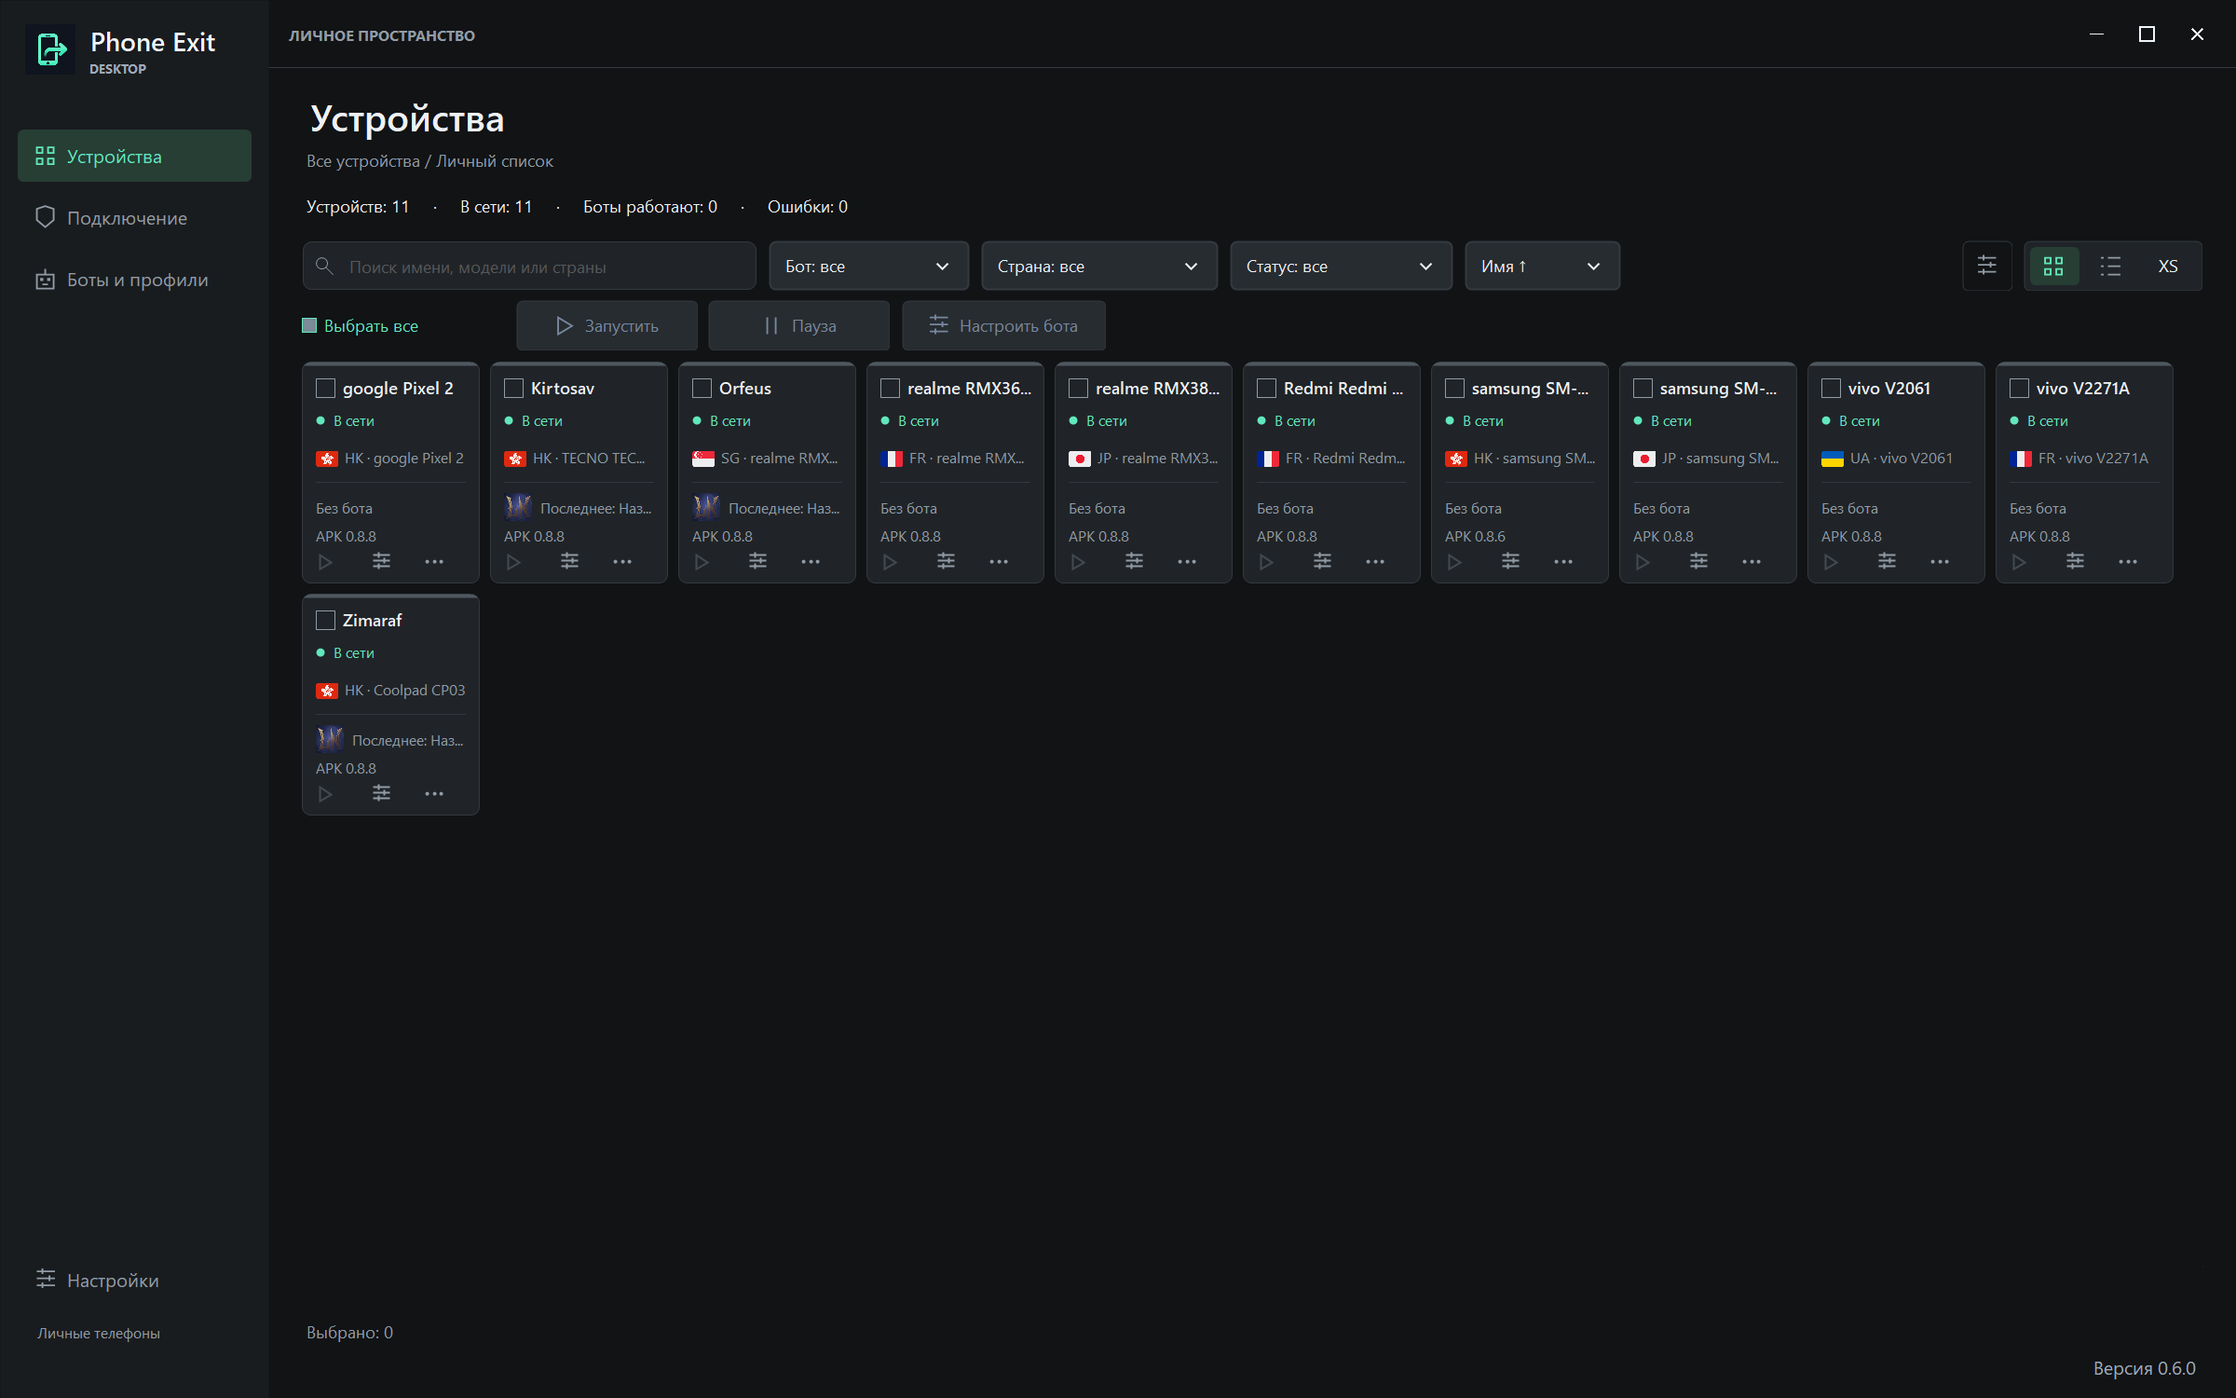
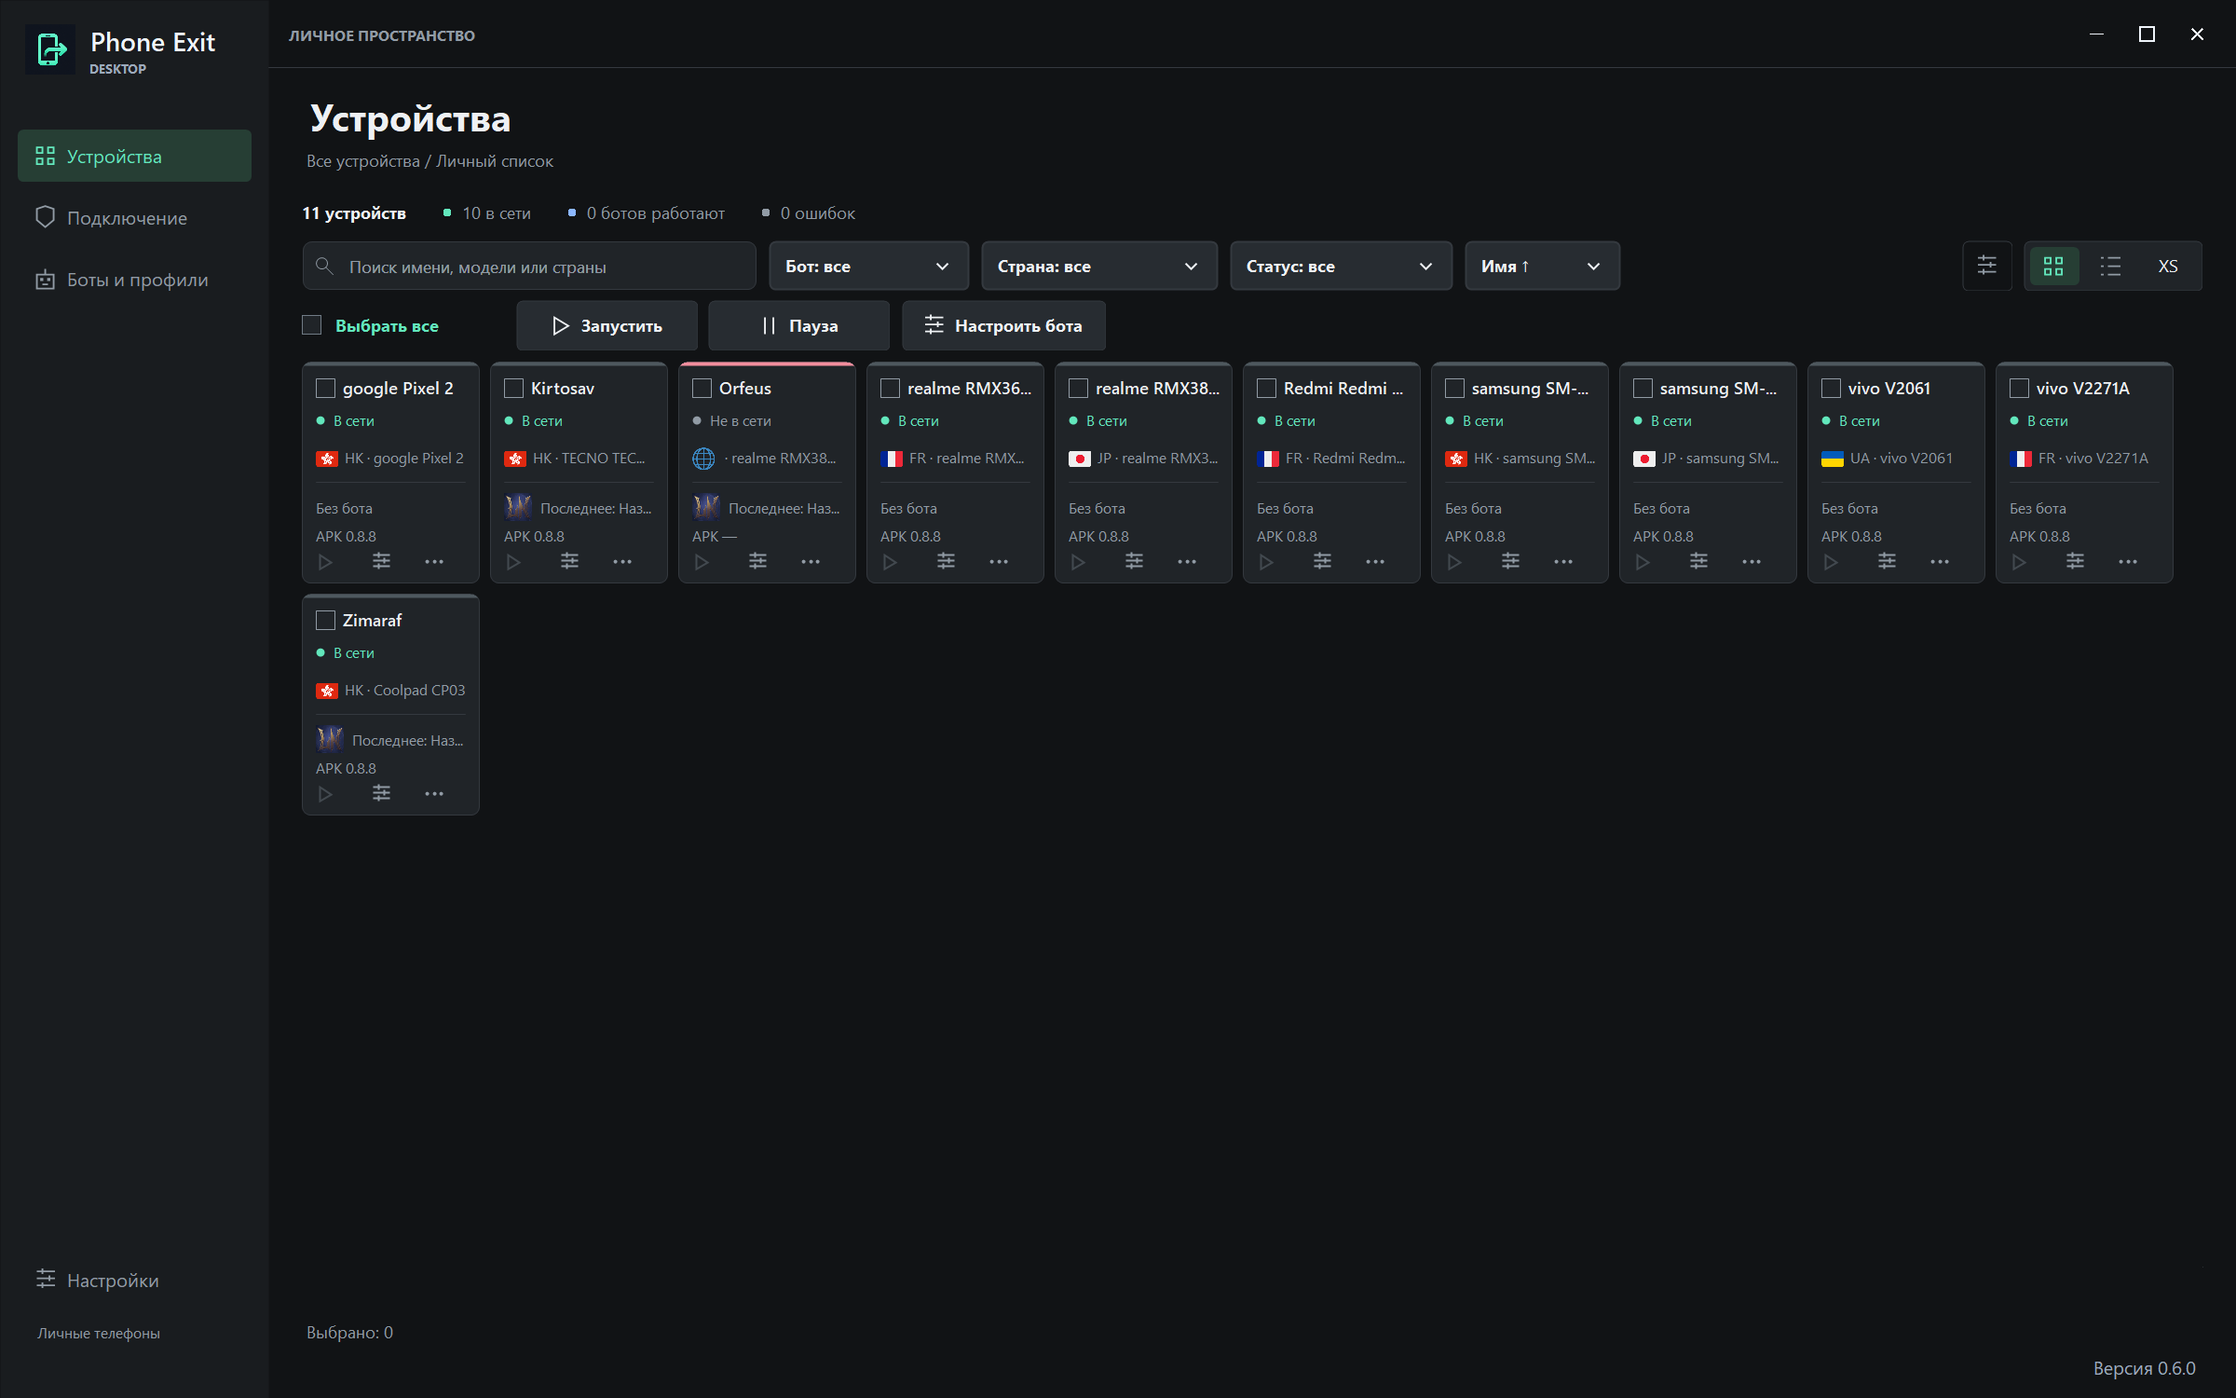
Polish fleet typography, status colors and compact table columns

diff --git a/phone-exit/pc/desktop-controls.cs b/phone-exit/pc/desktop-controls.cs
@@ -108,6 +108,7 @@ namespace PhoneExit {
         public bool IconOnly {get;set;}
         public bool Borderless {get;set;}
         public bool CenterContent {get;set;}
+        public bool KeepForegroundWhenDisabled {get;set;}
         public Color SurroundColor {get;set;}
         bool hover,pressed;
         protected override void OnMouseEnter(EventArgs e){hover=true;Invalidate();base.OnMouseEnter(e);}
@@ -120,7 +121,7 @@ namespace PhoneExit {
                 if(Rounded)Background(e.Graphics);else e.Graphics.Clear(BackColor);float s=DesktopDpi.ForControl(this),x=IconOnly?Width/2f-7*s:14*s,y=Height/2f-6*s;
                 int textWidth=TextRenderer.MeasureText(e.Graphics,Text,Font,Size.Empty,TextFormatFlags.NoPadding).Width;
                 if(CenterContent&&!IconOnly)x=(Width-textWidth-22*s)/2;
-                Color ink=Enabled?ForeColor:Color.FromArgb(119,136,158);
+                Color ink=Enabled||KeepForegroundWhenDisabled?ForeColor:Color.FromArgb(119,136,158);
                 using(var pen=new Pen(ink,Math.Max(1,1.2f*s))){
                     if(NavigationIcon=="devices"){for(int i=0;i<4;i++)e.Graphics.DrawRectangle(pen,x+(i%2)*8*s,y+(i/2)*8*s,4*s,4*s);}
                     else if(NavigationIcon=="list"){for(int i=0;i<3;i++){e.Graphics.DrawLine(pen,x,y+i*6*s,x+2*s,y+i*6*s);e.Graphics.DrawLine(pen,x+5*s,y+i*6*s,x+14*s,y+i*6*s);}}
@@ -153,7 +154,7 @@ namespace PhoneExit {
             var box=new Rectangle(0,top,size,size);var ink=Enabled?Color.FromArgb(98,231,188):Color.FromArgb(119,136,158);
             using(var brush=new SolidBrush(Checked?ink:Color.FromArgb(32,36,40)))e.Graphics.FillRectangle(brush,box);
             using(var pen=new Pen(Checked?ink:Color.FromArgb(112,123,133)))e.Graphics.DrawRectangle(pen,0,top,size-1,size-1);
-            if(Checked)using(var pen=new Pen(Color.FromArgb(16,37,30),Math.Max(1,1.5f*s)))e.Graphics.DrawLines(pen,new[]{new PointF(3*s,top+7*s),new PointF(6*s,top+10*s),new PointF(11*s,top+4*s)});
+            if(Checked)using(var pen=new Pen(Color.FromArgb(16,37,30),Math.Max(1,1.5f*s))){if(CheckState==CheckState.Indeterminate)e.Graphics.DrawLine(pen,3*s,top+7*s,11*s,top+7*s);else e.Graphics.DrawLines(pen,new[]{new PointF(3*s,top+7*s),new PointF(6*s,top+10*s),new PointF(11*s,top+4*s)});}
             TextRenderer.DrawText(e.Graphics,Text,Font,new Rectangle(size+(int)(7*s),0,Width-size-(int)(7*s),Height),Enabled?ForeColor:Color.FromArgb(119,136,158),TextFormatFlags.VerticalCenter|TextFormatFlags.SingleLine|TextFormatFlags.EndEllipsis);
             if(Focused)ControlPaint.DrawFocusRectangle(e.Graphics,new Rectangle(size+(int)(5*s),2,Width-size-(int)(5*s)-2,Height-4),ForeColor,BackColor);
         }
@@ -195,9 +196,20 @@ namespace PhoneExit {
         }
     }
 
+    public sealed class FleetSummaryControl : Control {
+        public int Total {get;private set;} public int Online {get;private set;} public int Running {get;private set;} public int Errors {get;private set;}
+        static string Count(int n,string one,string few,string many){int tail=n%100;return n+" "+(tail>=11&&tail<=14?many:n%10==1?one:n%10>=2&&n%10<=4?few:many);}
+        public FleetSummaryControl(){SetStyle(ControlStyles.UserPaint|ControlStyles.AllPaintingInWmPaint|ControlStyles.OptimizedDoubleBuffer|ControlStyles.ResizeRedraw,true);TabStop=false;AccessibleRole=AccessibleRole.StaticText;}
+        public void SetCounts(int total,int online,int running,int errors){Total=total;Online=online;Running=running;Errors=errors;Text=Count(total,"устройство","устройства","устройств")+" · "+online+" в сети · "+Count(running,"бот работает","бота работают","ботов работают")+" · "+Count(errors,"ошибка","ошибки","ошибок");AccessibleName=Text;Invalidate();}
+        protected override void OnPaint(PaintEventArgs e){e.Graphics.Clear(BackColor);float s=DesktopDpi.ForControl(this);int x=0;string[] labels={Count(Total,"устройство","устройства","устройств"),Online+" в сети",Count(Running,"бот работает","бота работают","ботов работают"),Count(Errors,"ошибка","ошибки","ошибок")};Color[] colors={ForeColor,Color.FromArgb(145,155,165),Color.FromArgb(145,155,165),Errors>0?Color.FromArgb(242,141,157):Color.FromArgb(145,155,165)};Color[] dots={ForeColor,Color.FromArgb(98,231,188),Color.FromArgb(140,183,255),Errors>0?Color.FromArgb(242,141,157):Color.FromArgb(145,155,165)};var flags=TextFormatFlags.NoPadding|TextFormatFlags.SingleLine|TextFormatFlags.VerticalCenter;using(var bold=new Font(Font,FontStyle.Bold)){for(int i=0;i<labels.Length;i++){if(i>0){using(var b=new SolidBrush(dots[i]))e.Graphics.FillEllipse(b,x,(Height-6*s)/2,6*s,6*s);x+=(int)Math.Round(14*s);}var font=i==0?bold:Font;int width=TextRenderer.MeasureText(e.Graphics,labels[i],font,Size.Empty,TextFormatFlags.NoPadding|TextFormatFlags.SingleLine).Width;TextRenderer.DrawText(e.Graphics,labels[i],font,new Rectangle(x,0,width,Height),colors[i],flags);x+=width+(int)Math.Round(26*s);}}}
+    }
+
     public sealed class SearchField : UserControl {
-        [DllImport("user32.dll",CharSet=CharSet.Unicode)] static extern IntPtr SendMessage(IntPtr window,int message,IntPtr value,string text);
-        readonly TextBox input=new TextBox{BorderStyle=BorderStyle.None,Multiline=false,AccessibleName="Поиск по имени, персонажу, модели или стране"};
+        sealed class SearchInput : TextBox {
+            public string Cue;
+            protected override void WndProc(ref Message m){base.WndProc(ref m);if(m.Msg!=0xf&&m.Msg!=0x317&&m.Msg!=0x318)return;if(Text.Length!=0||Focused||String.IsNullOrEmpty(Cue))return;using(var g=m.Msg==0xf?Graphics.FromHwnd(Handle):Graphics.FromHdc(m.WParam)){TextRenderer.DrawText(g,Cue,Font,ClientRectangle,Color.FromArgb(145,155,165),TextFormatFlags.NoPadding|TextFormatFlags.SingleLine|TextFormatFlags.VerticalCenter|TextFormatFlags.EndEllipsis);}}
+        }
+        readonly SearchInput input=new SearchInput{BorderStyle=BorderStyle.None,Multiline=false,AccessibleName="Поиск по имени, персонажу, модели или стране"};
         readonly SearchClear clear=new SearchClear();
         readonly ToolTip tips=new ToolTip();
         public string Placeholder="Поиск имени, модели или страны";
@@ -207,9 +219,9 @@ namespace PhoneExit {
             public SearchClear(){FlatStyle=FlatStyle.Flat;FlatAppearance.BorderSize=0;AccessibleName="Очистить поиск";Cursor=Cursors.Hand;TabStop=false;}
             protected override void OnPaint(PaintEventArgs e){e.Graphics.Clear(BackColor);float s=DesktopDpi.Scale,x=Width/2f,y=Height/2f;using(var pen=new Pen(ForeColor,Math.Max(1,s))){e.Graphics.DrawLine(pen,x-3*s,y-3*s,x+3*s,y+3*s);e.Graphics.DrawLine(pen,x+3*s,y-3*s,x-3*s,y+3*s);}}
         }
-        public SearchField(){SetStyle(ControlStyles.UserPaint|ControlStyles.AllPaintingInWmPaint|ControlStyles.OptimizedDoubleBuffer|ControlStyles.ResizeRedraw,true);BackColor=Color.FromArgb(32,36,40);ForeColor=Color.FromArgb(238,241,244);Controls.Add(input);Controls.Add(clear);input.BackColor=BackColor;input.ForeColor=ForeColor;clear.ForeColor=Color.FromArgb(145,155,165);clear.BackColor=BackColor;tips.SetToolTip(clear,"Очистить поиск");input.TextChanged+=(s,e)=>{OnTextChanged(EventArgs.Empty);LayoutInput();Invalidate();};input.GotFocus+=(s,e)=>Invalidate();input.LostFocus+=(s,e)=>Invalidate();input.KeyDown+=(s,e)=>{if(e.KeyCode==Keys.Escape){Clear();e.Handled=true;e.SuppressKeyPress=true;}};clear.Click+=(s,e)=>{Clear();input.Focus();};input.HandleCreated+=(s,e)=>SendMessage(input.Handle,0x1501,(IntPtr)1,Placeholder);LayoutInput();}
+        public SearchField(){SetStyle(ControlStyles.UserPaint|ControlStyles.AllPaintingInWmPaint|ControlStyles.OptimizedDoubleBuffer|ControlStyles.ResizeRedraw,true);BackColor=Color.FromArgb(32,36,40);ForeColor=Color.FromArgb(238,241,244);Controls.Add(input);Controls.Add(clear);input.BackColor=BackColor;input.ForeColor=ForeColor;clear.ForeColor=Color.FromArgb(145,155,165);clear.BackColor=BackColor;tips.SetToolTip(clear,"Очистить поиск");input.TextChanged+=(s,e)=>{OnTextChanged(EventArgs.Empty);LayoutInput();Invalidate();};input.GotFocus+=(s,e)=>{LayoutInput();Invalidate();};input.LostFocus+=(s,e)=>{LayoutInput();Invalidate();};input.KeyDown+=(s,e)=>{if(e.KeyCode==Keys.Escape){Clear();e.Handled=true;e.SuppressKeyPress=true;}};clear.Click+=(s,e)=>{Clear();input.Focus();};LayoutInput();}
         public void Clear(){input.Clear();}
-        void LayoutInput(){if(input==null)return;clear.Visible=input.Text.Length>0;int height=input.PreferredHeight;input.SetBounds(D(34),Math.Max(D(4),(Height-height)/2),Math.Max(1,Width-D(clear.Visible?66:46)),height);clear.SetBounds(Width-D(28),(Height-D(24))/2,D(24),D(24));}
+        void LayoutInput(){if(input==null)return;clear.Visible=input.Text.Length>0;int height=input.PreferredHeight;input.SetBounds(D(34),Math.Max(D(4),(Height-height)/2),Math.Max(1,Width-D(clear.Visible?66:46)),height);clear.SetBounds(Width-D(28),(Height-D(24))/2,D(24),D(24));input.Cue=Placeholder;input.Invalidate();}
         protected override void OnResize(EventArgs e){base.OnResize(e);LayoutInput();}
         protected override void OnFontChanged(EventArgs e){base.OnFontChanged(e);if(input!=null){input.Font=Font;LayoutInput();}}
         protected override void OnBackColorChanged(EventArgs e){base.OnBackColorChanged(e);if(input!=null)input.BackColor=BackColor;if(clear!=null)clear.BackColor=BackColor;}

diff --git a/phone-exit/pc/desktop-fleet.cs b/phone-exit/pc/desktop-fleet.cs
@@ -108,12 +108,12 @@ namespace PhoneExit {
         static readonly string[] headers={"Устройство / персонаж","Группа","Страна","Связь","VPN","APK","Бот / версия","Состояние","Поставщик","Действия"};
         public Rectangle ColumnBounds(int column){
             // Share the same tracks for headings and cells at every DPI and window size.
-            double[] tracks={0,.20,.28,.35,.43,.49,.55,.73,.89,1};
-            int available=Math.Max(1,tileWidth-D(104));
+            int[] widths={0,D(100),D(70),D(96),D(64),D(64),0,0,D(104),D(104)};
+            int flexible=tileWidth-widths.Sum();
+            widths[0]=(int)Math.Round(flexible*.45);widths[6]=(int)Math.Round(flexible*.27);widths[7]=flexible-widths[0]-widths[6];
             int offset=table?horizontal.Value:0;
-            if(column==9)return new Rectangle(available-offset,0,tileWidth-available,D(34));
-            int left=(int)Math.Round(available*tracks[column]),right=(int)Math.Round(available*tracks[column+1]);
-            return new Rectangle(left-offset,0,right-left,D(34));
+            int left=0;for(int i=0;i<column;i++)left+=widths[i];
+            return new Rectangle(left-offset,0,widths[column],D(34));
         }
         Rectangle Cell(int column,Rectangle row,int inset){var r=ColumnBounds(column);return new Rectangle(r.X+D(inset),row.Y+D(15),Math.Max(1,r.Width-D(inset+6)),D(28));}
         string ApkText(FleetPhone phone){return String.IsNullOrEmpty(phone.ApkVersion)?"—":phone.ApkVersion;}

diff --git a/phone-exit/docs/redesign-2026-10-13/device-list-implementation.md b/phone-exit/docs/redesign-2026-10-13/device-list-implementation.md
@@ -35,6 +35,22 @@ VPN показывает только подключение через теку
 при минимальной области 960x700 со свёрнутыми расширенными фильтрами.
 Размеры указаны в логических пикселях; проверка учитывает DPI.
 
+14 октября: заголовок, фильтры, массовые команды и выбор получили жирное
+начертание Segoe UI. Основной текст светлый, подсказка поиска рисуется
+локально цветом #919ba5 вместо системного тёмного cue banner.
+Статистика: жирный общий счётчик, мятная точка связи, голубая точка
+работающих ботов, розовые точка и текст при ненулевом числе ошибок.
+Нулевой счётчик ошибок нейтральный. Проверка снимка статистики подтверждает
+цвета; свежесть отчётов и статусные полоски карточек не изменены.
+При частичном выборе отображаются число выбранных и промежуточный флажок.
+Отключённые команды остаются приглушёнными и не становятся кликабельными.
+По следующему уточнению пользователя текст и значки трёх массовых команд
+белые также в отключённом состоянии; Enabled и защита действий не изменены.
+Короткие колонки таблицы больше не растягиваются пропорционально окну:
+группа 100px, страна 70px, связь 96px, VPN/APK по 64px,
+поставщик и действия по 104px. Остальная ширина распределяется между
+устройством, ботом и состоянием; заголовки и строки используют общие размеры.
+
 Проверки: test-desktop-fleet.ps1 (100/150%, фильтры, прокрутка, действия),
 desktop.ps1 -UiTest (реальный каталог, фильтры, размеры и остальные окна).
 Проверки не запускают ботов и не включают VPN.
